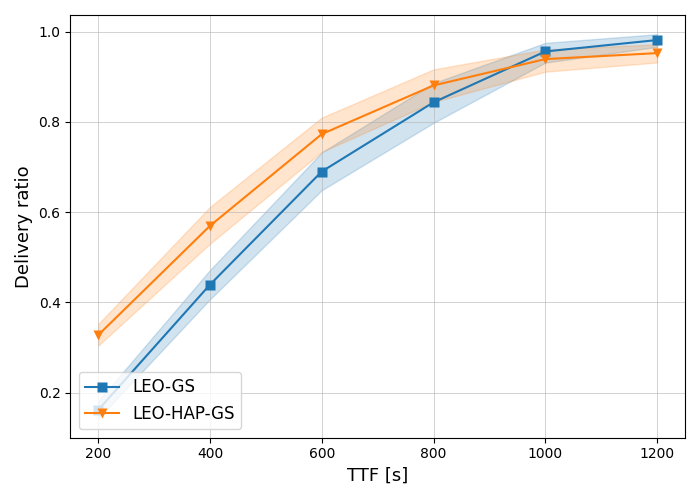
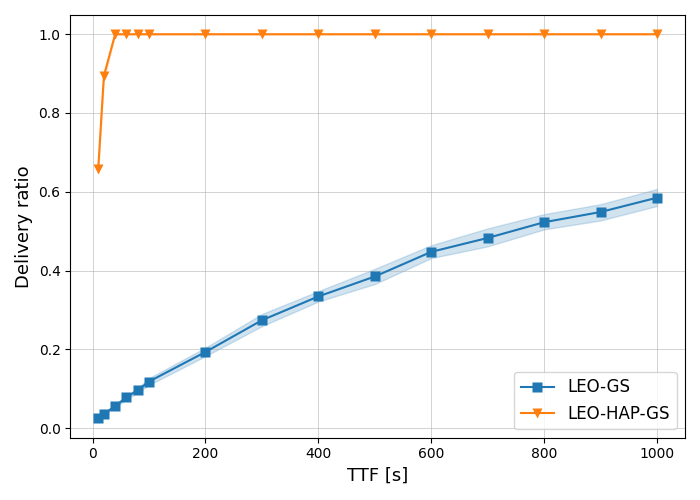
Fix refresh after node failure

diff --git a/dtnsim/simulations/jsac_haps/plot_results.py b/dtnsim/simulations/jsac_haps/plot_results.py
@@ -64,7 +64,7 @@ mar2 = 7
 mar3 = 7
 mar4 = 9
 
-TTF = [200, 400, 600, 800, 1000, 1200]
+TTF = [10] + list(range(20,100,20)) + list(range(100,1100,100))
 repetitions = list(range(0,50))
 results1 = get_delivery_ratio(INPUT_PATH, scenarios, TTF, repetitions)
 
@@ -82,7 +82,7 @@ ax.set_xlabel("TTF [s]", fontsize=13)
 ax.set_ylabel("Delivery ratio", fontsize=13)
 plt.tight_layout()
 plt.grid(linewidth=LINEWIDTH, zorder=0)
-ax.legend(loc='lower left', prop={'size': 12})
+ax.legend(loc='lower right', prop={'size': 12})
 plt.savefig("delivery_ratio.png")
 plt.cla()
 plt.clf()
